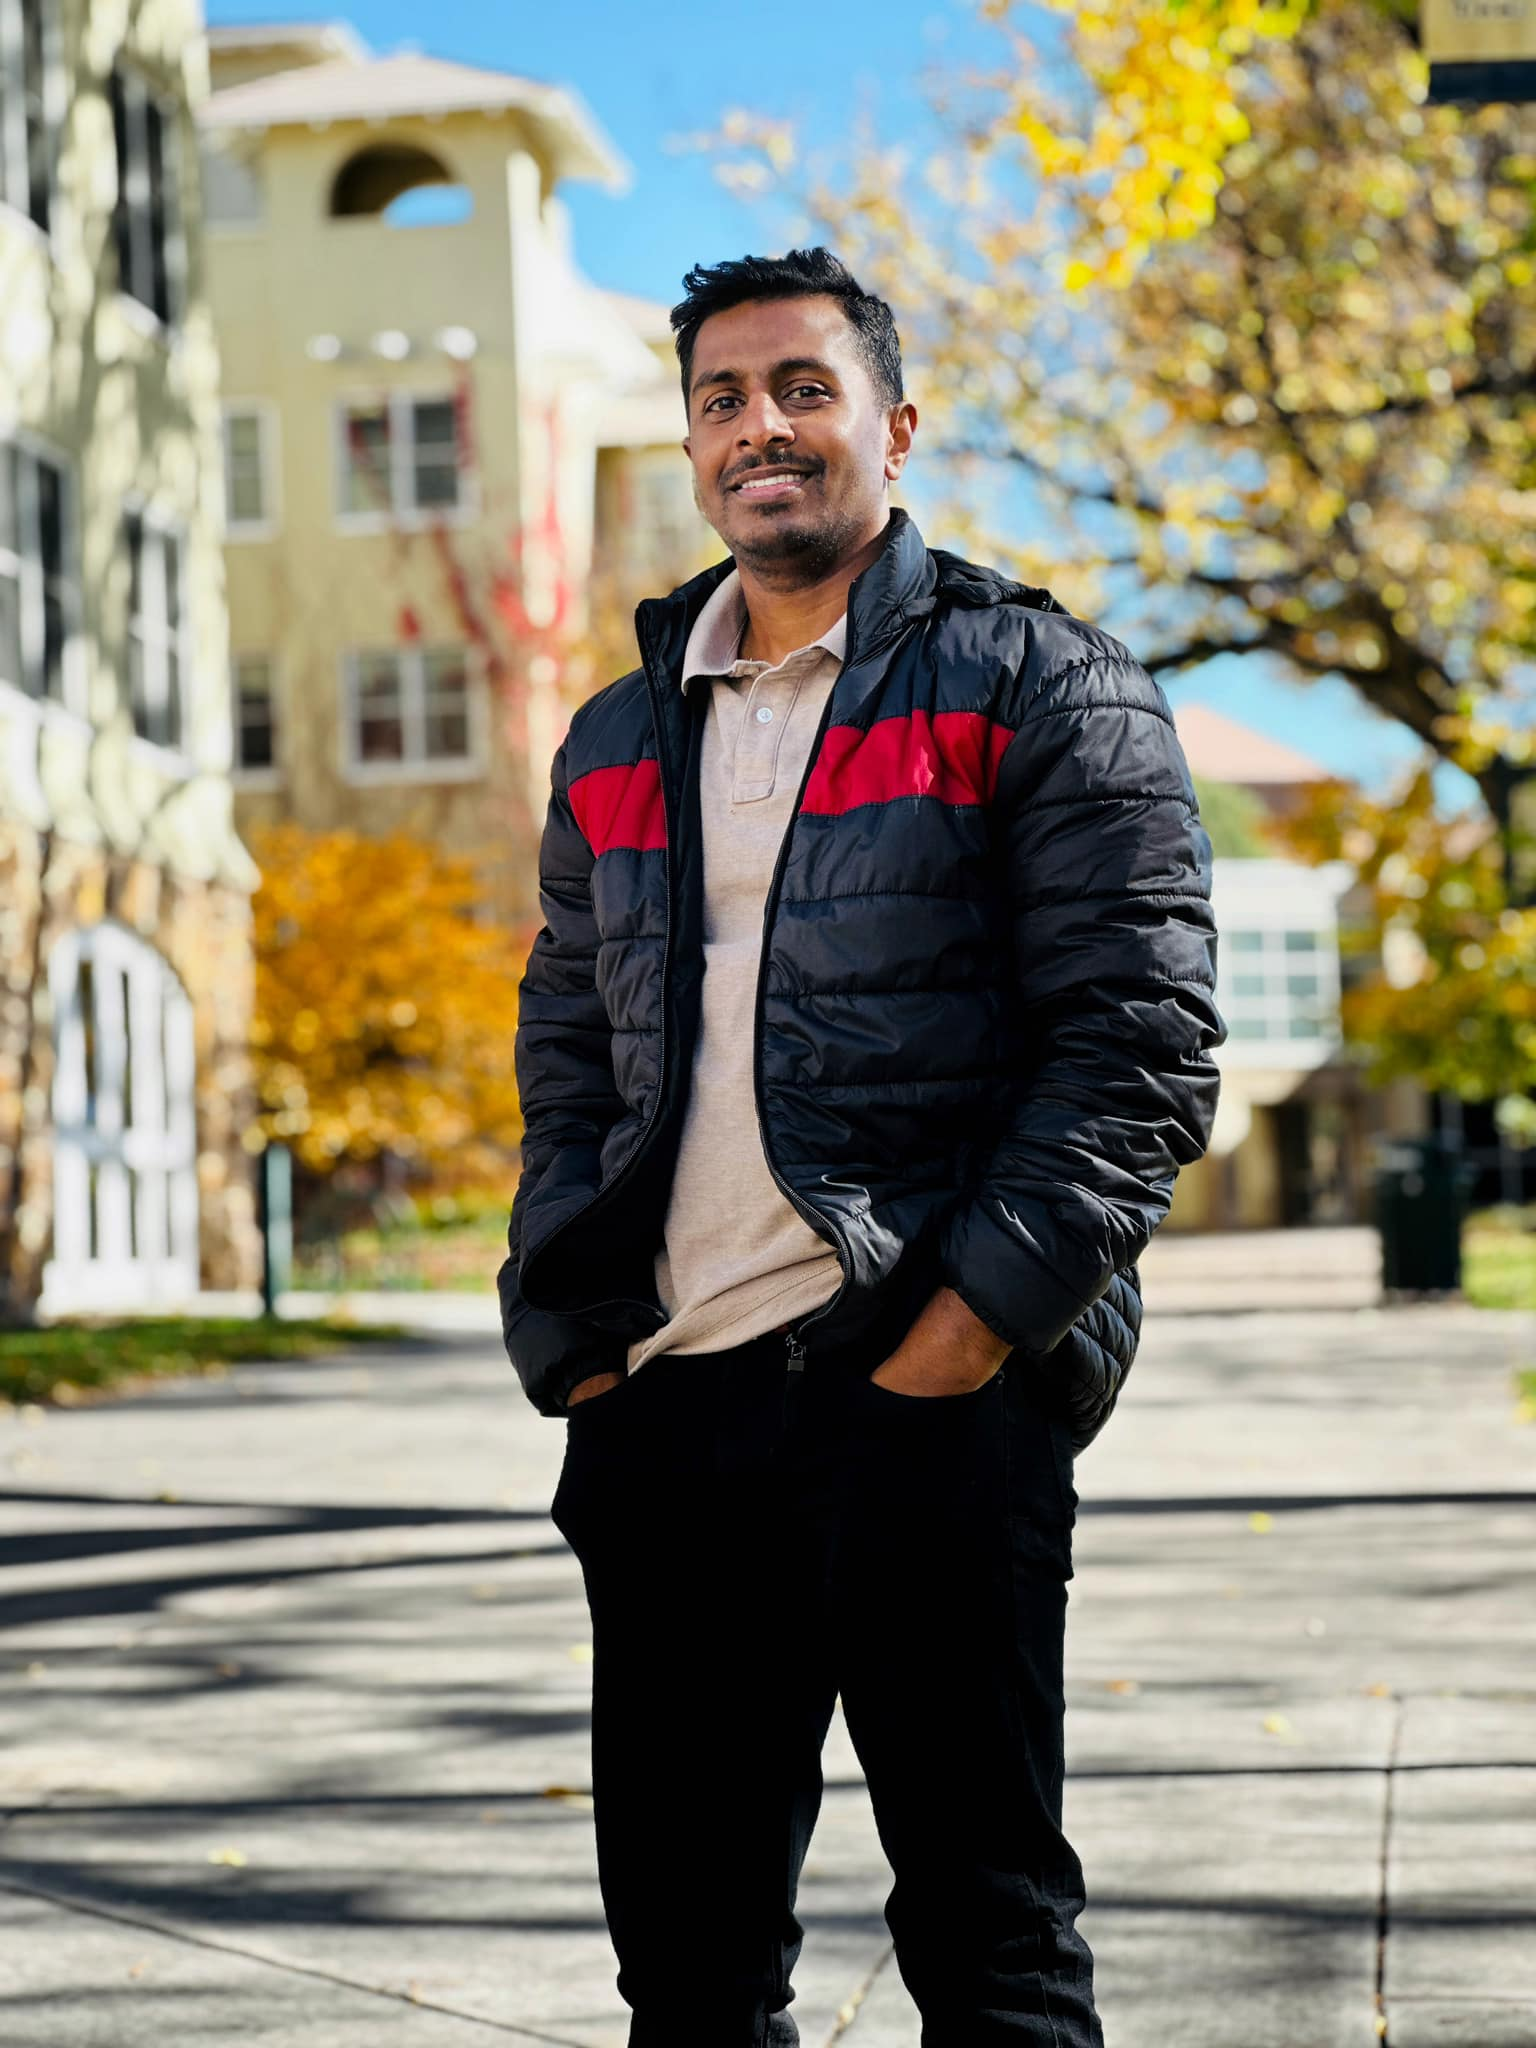
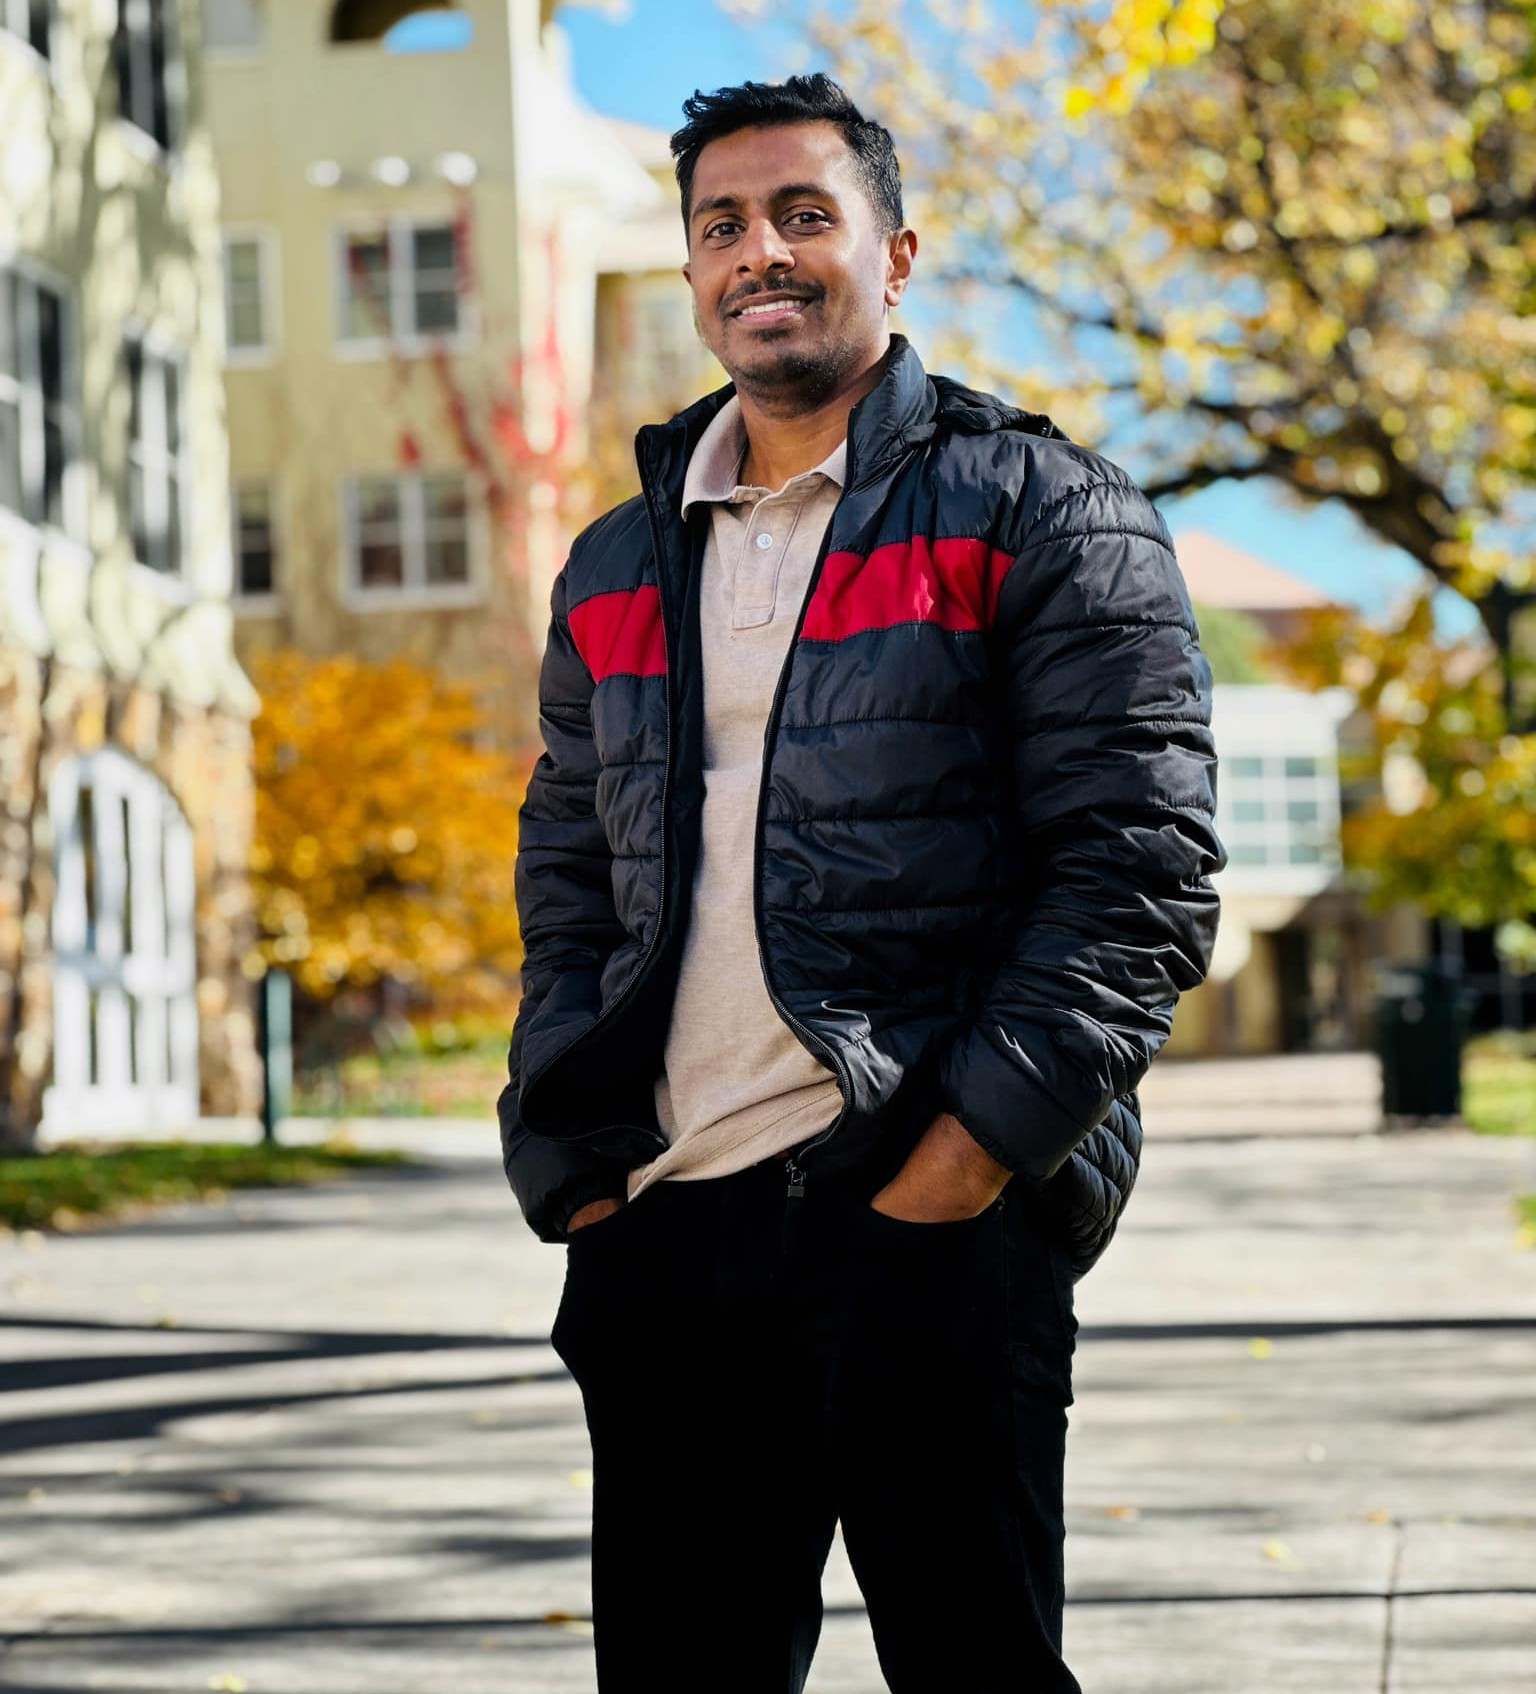
Push Updates

diff --git a/projects.html b/projects.html
@@ -129,6 +129,31 @@
 
 					<div class='card mb-4 text-color rounded card-border'>
 						<div class='card-header bg-color-dim'>
+							<h5 class='card-title text-color m-0'>Positive Reputation Score for Bitcoin</h5>
+						</div>
+						<div class='card-body rounded-bottom bg-card-color'>
+							<div class='row'>
+								<div class='col-lg-12 mb-3'>
+									<p class='card-text'>
+										<strong>Abstract:</strong> Cryptocurrency relies on the underlying P2P networking to deliver the up-to-date block and transaction information to synchronize and agree on the processed financial transactions. To maintain healthy connectivity, Bitcoin has implemented a negative reputation scheme based on ban score, which tracks the peer node behavior and results in dropping the peer connection if exceeding a threshold. Previous research in cryptocurrency security showed that such ban score can be both ineffective (easy to bypass to un-ban itself) and vulnerable (against spoofing-based defamation). We design and build a novel positive reputation scheme that addresses such deficiencies of ban score by having the peer behavior only positively impact our score and by disincentivizing switching the network ID for a new reputation score. We provide a general framework for the positive reputation scheme to enable the use of different networking sensing and measurements as well as different aggregate weights for scoring. Then, we provide a concrete instance and build of the positive reputation score scheme focusing on the peer's behavior in relaying unique/new blocks and transactions. We implement, experiment, and analyze our scheme on an active Bitcoin node connected to the Mainnet to show how our scheme provides the reputation and informs the beneficialness of each of its peer connections (delivering new block and transaction information).
+									</p>
+									<embed type='image/png' id='PositiveReputationScore' class='rounded' src='img/PositiveReputationScore.png' width='100%' alt='Positive Reputation Score Varying the Weights'>
+									<div class='d-flex gap-2 mt-3'>
+										<a href='https://doi.org/10.1109/CCNC51664.2024.10454756' target='_blank'
+											rel='noopener noreferrer' class='btn btn-primary btn-small'>View
+											Publication</a>
+									</div>
+								</div>
+							</div>
+							<div class='mt-3'>
+								<p class='mb-0'><strong>Citation:</strong> Simeon Wuthier, <u>Nazmus Sakib</u>, and Sang-Yoon Chang. "Positive reputation score for bitcoin  p2p network." In 2024 IEEE 21st Consumer Communications & Networking Conference (CCNC),  pp. 519-524. IEEE, 2024.
+							</div>
+						</div>
+					</div>
+
+
+					<div class='card mb-4 text-color rounded card-border'>
+						<div class='card-header bg-color-dim'>
 							<h5 class='card-title text-color m-0'>Bitcoin Over IP, Tor, I2P, CJDNS</h5>
 						</div>
 						<div class='card-body rounded-bottom bg-card-color'>
@@ -137,7 +162,9 @@
 									<p class='card-text'>
 										<strong>Abstract:</strong> Cryptocurrency is designed for anonymous financial transactions to avoid centralized control, censorship, and regulations. To protect anonymity in the underlying P2P networking, Bitcoin adopts and supports anonymous routing of Tor, I2P, and CJDNS. We analyze the networking performances of these anonymous routing with the focus on their impacts on the blockchain consensus protocol. Compared to non-anonymous routing, anonymous routing adds inherent-by-design latency performance costs due to the additions of the artificial P2P relays. However, we discover that the lack of ecosystem plays an even bigger factor in the performances of the anonymous routing for cryptocurrency blockchain. I2P and CJDNS, both advancing the anonymous routing beyond Tor, in particular lack the ecosystem of sizable networking-peer participation. I2P and CJDNS thus result in the Bitcoin experiencing networking partitioning, which has traditionally been researched and studied in cryptocurrency/blockchain security. We focus on I2P and Tor and compare them with the non-anonymous routing because CJDNS has no active public peers resulting in no connectivity. Tor results in slow propagation while I2P yields soft partition, which is a partition effect long enough to have a substantial impact in the PoW mining. To better study and identify the latency and the ecosystem factors of the cryptocurrency networking and consensus costs, we study the behaviors both in the connection manager (directly involved in the P2P networking) and the address manager (informing the connection manager of the peer selections on the backend). This paper presents our analyses results to inform the state of cryptocurrency blockchain with anonymous routing and discusses future work directions and recommendations to resolve the performance and partition issues.
 									</p>
-									<embed type='image/svg+xml' id='BitcoinOverAnonymousRouting' src='img/BitcoinOverAnonymousRouting.svg' width='100%' alt='Bitcoin Over Anonymous Routing'>
+									<center>
+										<embed type='image/svg+xml' id='BitcoinOverAnonymousRouting' src='img/BitcoinOverAnonymousRouting.svg' width='80%' alt='Bitcoin Over Anonymous Routing'>
+									</center>
 									<div class='d-flex gap-2 mt-3'>
 										<a href='https://doi.org/10.1109/ICBC59979.2024.10634476' target='_blank'
 											rel='noopener noreferrer' class='btn btn-primary btn-small'>View

diff --git a/index.html b/index.html
@@ -55,7 +55,7 @@
 			<div class='position-sticky pt-3 sidebar-sticky'>
 				<ul class='nav flex-column'>
 					<li class='nav-item'>
-						<canvas id='profile' class='fade' width='800' height='820'></canvas>
+						<canvas id='profile' class='fade' width='950' height='1100'></canvas>
 					</li>
 					<li class='nav-link nav-item mt-3'><span
 							class='active fs-5 font-weight-bold text-color-bold'><b>Nazmus Sakib</b></span>
@@ -108,7 +108,7 @@
 			<br>
 			<h4 class='text-color'>Peer-to-Peer Networks & Distributed Ledger Technologies</h4>
 			<p class='text-color'>
-				My interest in peer-to-peer networks and distributed ledger technologies revolves around improving transaction efficiency and security. This includes optimizing blockchain protocols for faster block propagation times and reduced latency, and studying the implications of network topology on blockchain performance.
+				My interest in peer-to-peer networks and distributed ledger technologies revolves around improving transaction efficiency and security. This includes optimizing blockchain protocols for faster block propagation times, reduced system latency, and empirically analyzing the impact of network topology on blockchain performance.
 			</p>
 		
 			<div class='row'>
@@ -130,10 +130,10 @@
 
 			<hr>
 		
-			<p class='text-color'>
+			<h5 class='text-color'>
 				More information can be found on my <a href='publications'>publications</a> and <a
 					href='projects'>projects</a> pages.
-			</p>
+			</h5>
 		
 		</main>		
 	</div>
@@ -155,7 +155,7 @@
 				var ctx = canvas.getContext('2d');
 				var img = new Image();
 				img.onload = function () {
-					ctx.drawImage(img, 0, 0, 800, 820);
+					ctx.drawImage(img, 0, 0, 950, 1100);
 					canvas.classList.add('show');
 				}
 				img.src = 'img/profile.jpg';
